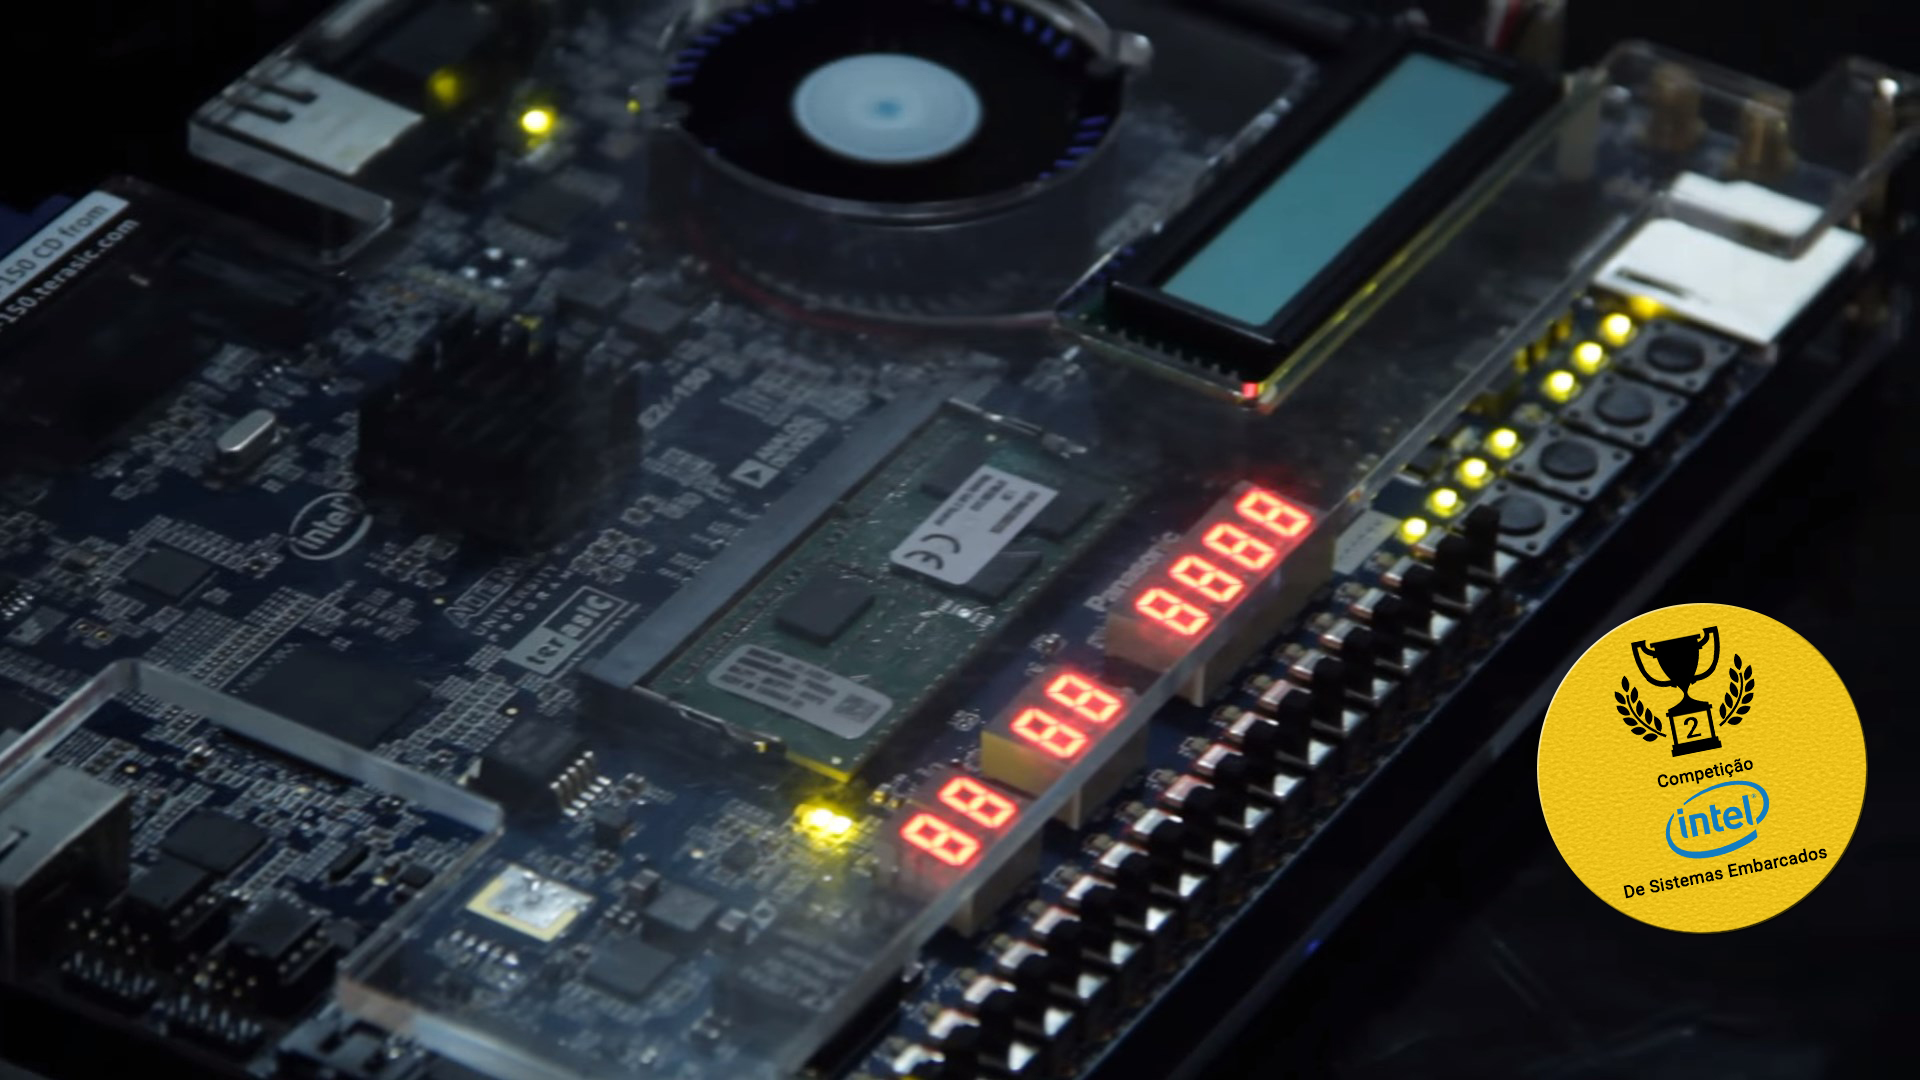
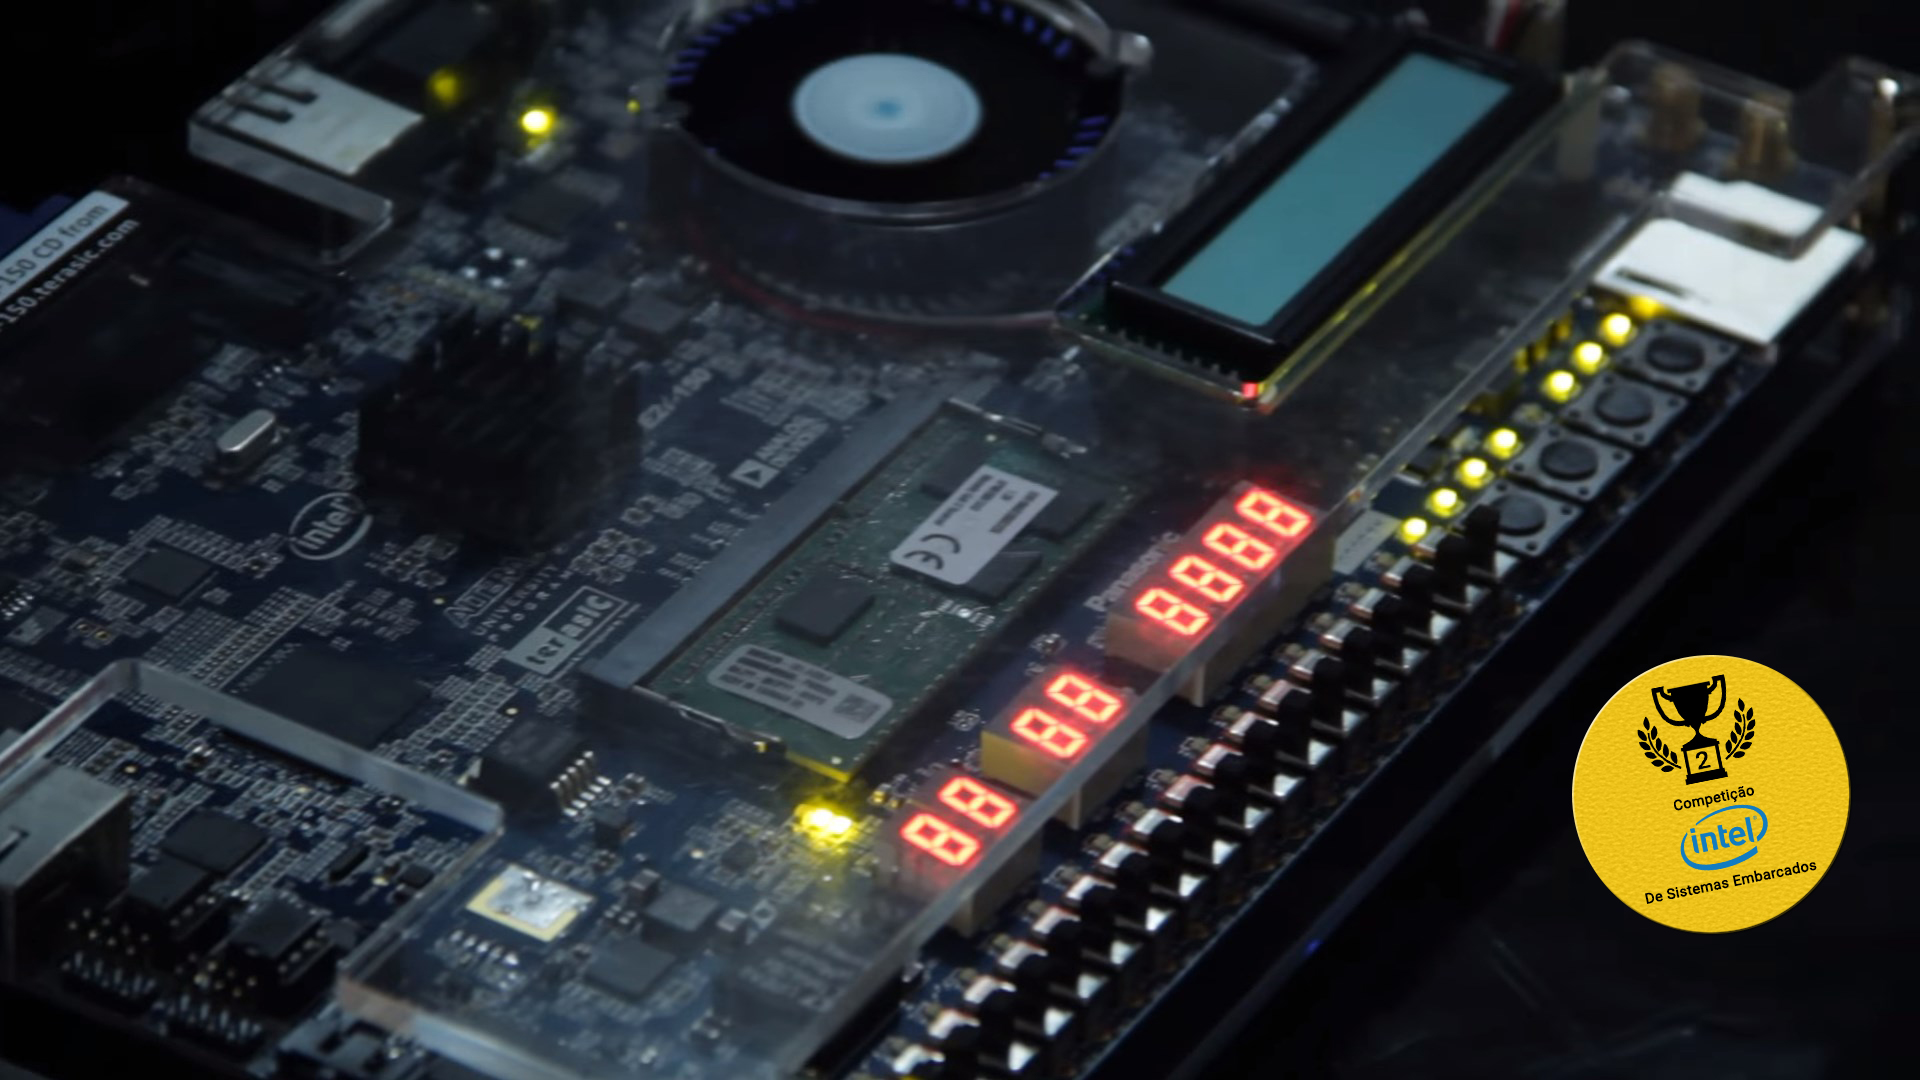
diminuido circulo amarelo e arrumado erros de portuguÊs

Changed region(s): [[0.7812, 0.55, 1.0, 0.8556]]

diff --git a/index.html b/index.html
@@ -177,7 +177,7 @@
                             <div class="timeline-panel">
                                 <div class="timeline-heading">
                                     <h4>- 2 -</h4>
-                                    <h4 class="subheading">Renhecimento da região do olho</h4>
+                                    <h4 class="subheading">Reconhecimento da região do olho</h4>
                                 </div>
                                 <div class="timeline-body">
                                     <p class="text-muted">Utilizando OpenCv, a face e o olho são detectados utilizando um algoritmo de reconhecimento de padrões -Classificadores Haar-  </p>
